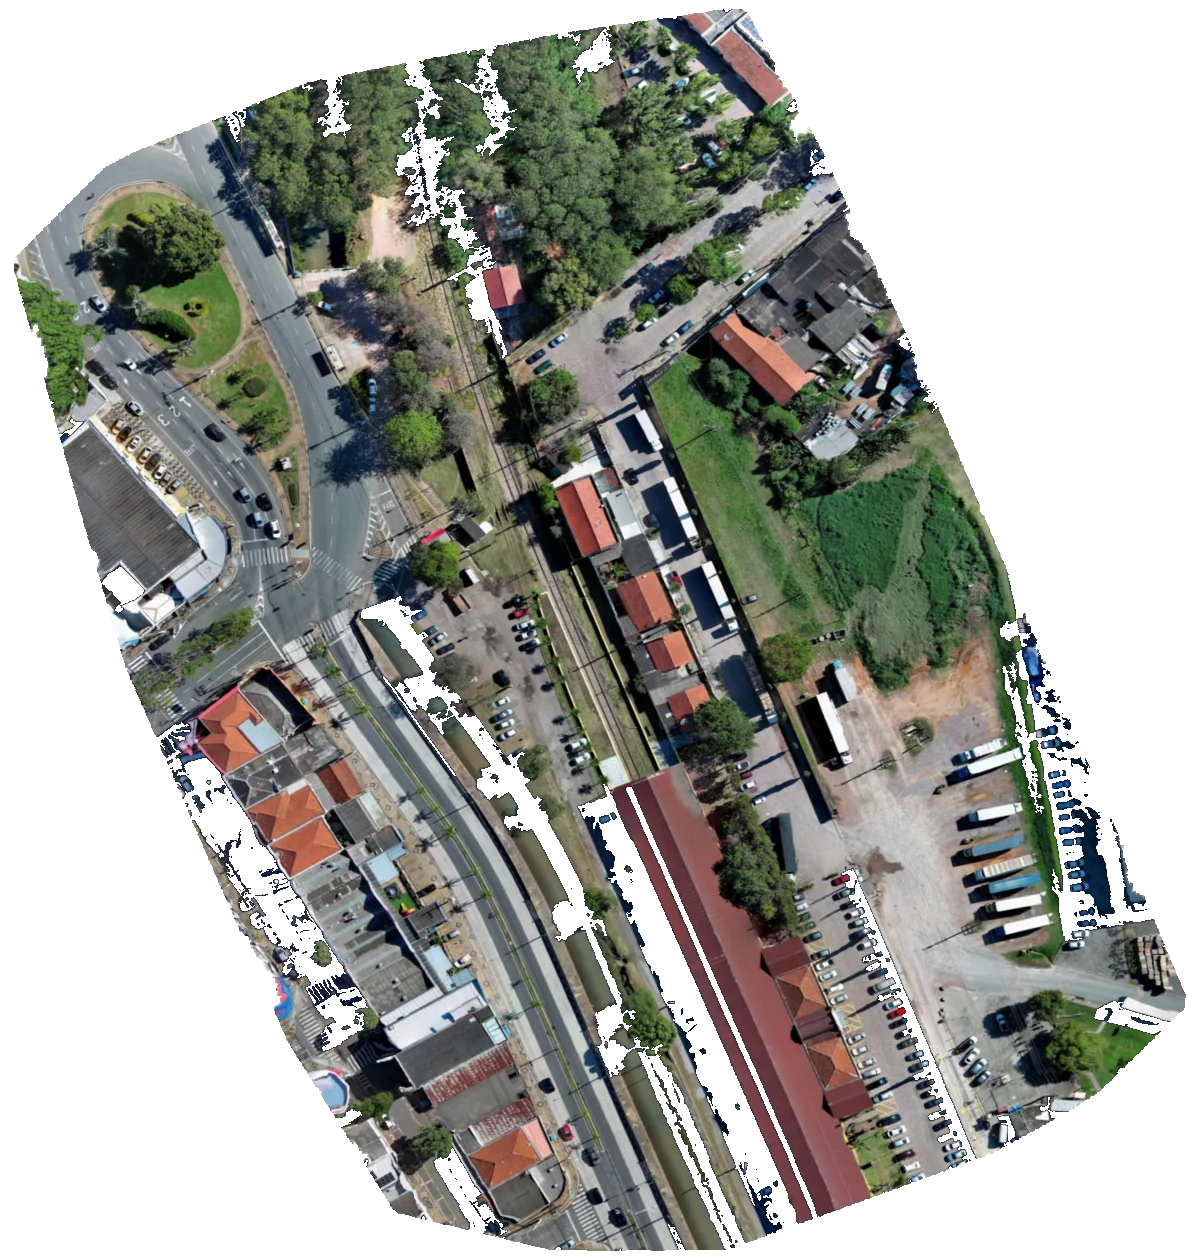
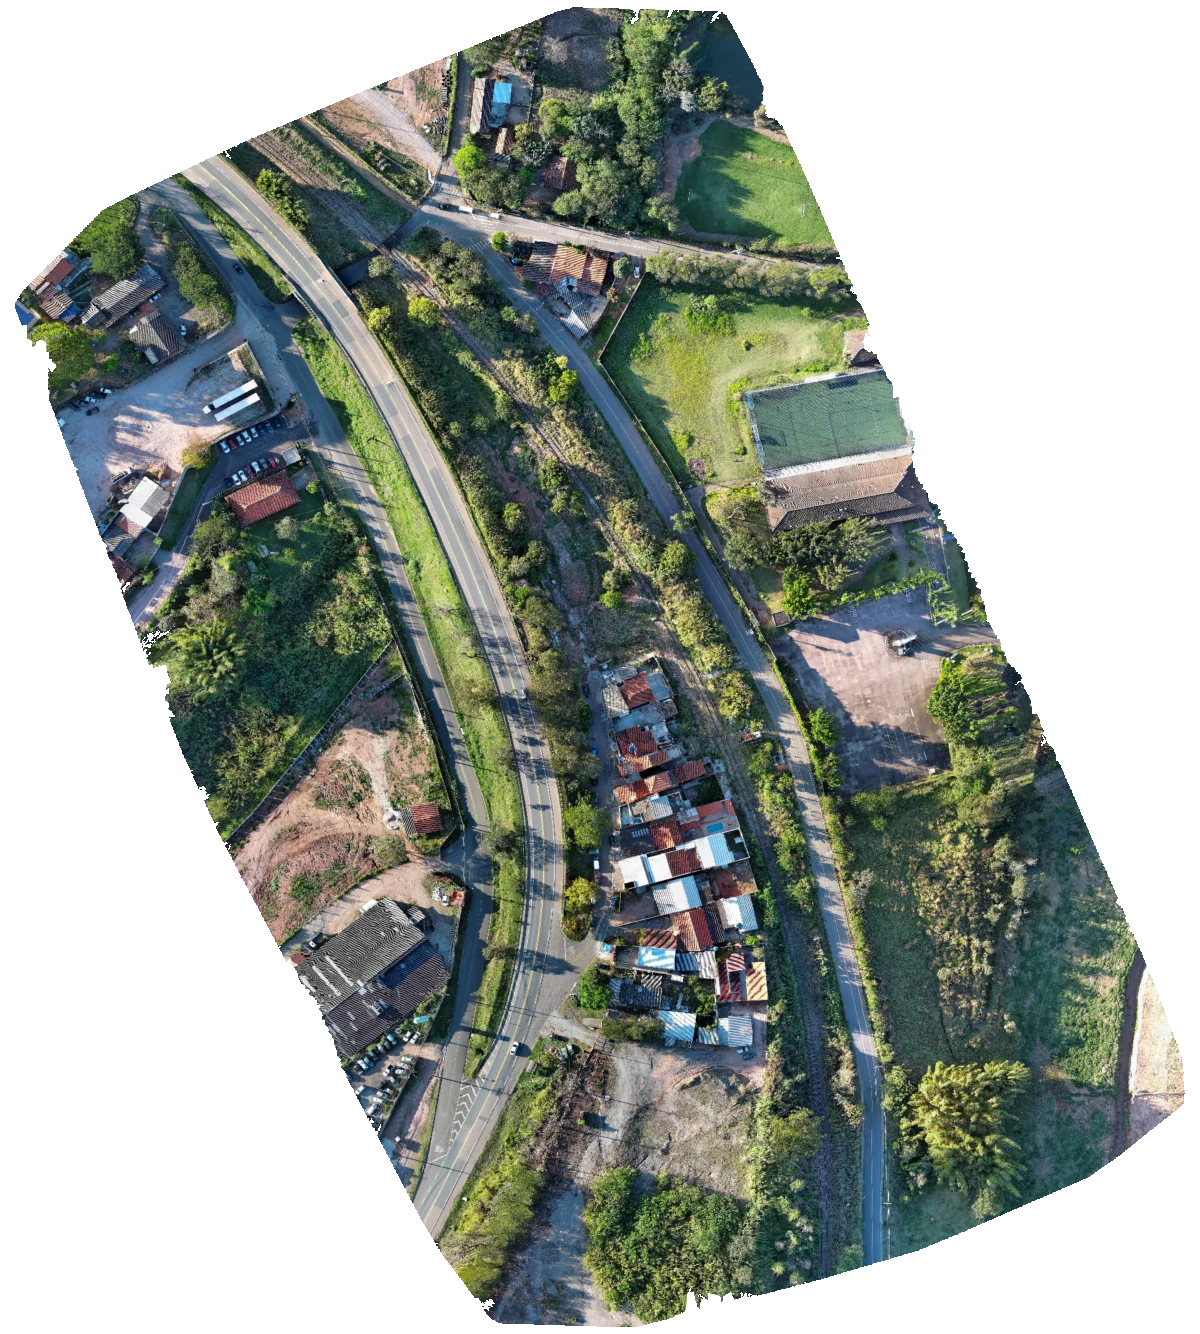
Corrige nomes e limites dos voos no mapa

diff --git a/index.html b/index.html
@@ -324,7 +324,7 @@ const grupo=L.layerGroup().addTo(map);
 const marcadores=[]; const ativos=new Set();
 function render(){grupo.clearLayers();marcadores.forEach(m=>{if(ativos.has(m.status))grupo.addLayer(m.mk);});}
 
-fetch('dados.geojson?v=5243706').then(r=>r.json()).then(gj=>{
+fetch('dados.geojson?v=20260915-oc').then(r=>r.json()).then(gj=>{
   const feats=gj.features.filter(f=>f.geometry&&f.geometry.coordinates);
   // ordena por latitude p/ varredura
   feats.sort((a,b)=>b.geometry.coordinates[1]-a.geometry.coordinates[1]);
@@ -368,9 +368,9 @@ fetch('dados.geojson?v=5243706').then(r=>r.json()).then(gj=>{
 
   // demais imagens de voo disponíveis no projeto QGIS
   const OUTROS_VOOS=[
-    {id:'lo002',nome:'LO_002 · imagem aérea',arquivo:'LO_002_web.webp',bounds:[[-22.9696576,-46.9952151],[-22.966826,-46.9925139]]},
-    {id:'lo003',nome:'LO_003 · imagem aérea',arquivo:'LO_003_web.webp',bounds:[[-23.1048959,-46.9438006],[-23.1007857,-46.9401037]]},
-    {id:'va004',nome:'VA_004 · imagem aérea',arquivo:'VA_004_web.webp',bounds:[[-23.0953735,-46.9490163],[-23.0919928,-46.9463874]]}
+    {id:'lo002',nome:'LO_002 · imagem aérea',arquivo:'LO_002_web.webp?v=20260915-raster',bounds:[[-23.1048959,-46.9438006],[-23.1007857,-46.9401037]]},
+    {id:'lo003',nome:'LO_003 · imagem aérea',arquivo:'LO_003_web.webp?v=20260915-raster',bounds:[[-23.0953735,-46.9490163],[-23.0919928,-46.9463874]]},
+    {id:'va004',nome:'VA_004 · imagem aérea',arquivo:'VA_004_web.webp?v=20260915-raster',bounds:[[-22.9696576,-46.9952151],[-22.966826,-46.9925139]]}
   ];
   OUTROS_VOOS.forEach(cfg=>{
     const raster=L.imageOverlay(cfg.arquivo,cfg.bounds,{opacity:.82,interactive:false});

diff --git a/prepare_web_rasters.py b/prepare_web_rasters.py
@@ -11,9 +11,9 @@ import numpy as np
 ROOT = Path(__file__).resolve().parent
 SRC = Path(os.environ.get('QGIS_RASTER_DIR', ROOT))
 items = [
-    ('LO_002', SRC / 'odm_orthophoto.tif'),
-    ('LO_003', SRC / 'odm_orthophoto1.tif'),
-    ('VA_004', SRC / 'odm_orthophoto2.tif'),
+    ('LO_002', SRC / 'odm_orthophoto1.tif'),
+    ('LO_003', SRC / 'odm_orthophoto2.tif'),
+    ('VA_004', SRC / 'odm_orthophoto.tif'),
 ]
 
 def bounds_from_extent(extent):

diff --git a/qfield/README.md b/qfield/README.md
@@ -6,6 +6,8 @@ A versão publicada aqui é uma cópia compactada do raster usada para respeitar
 
 O arquivo `Cadastro_Campo_cloud.qgs` referencia o raster relativo `./JU0014_sem_borda.tif`. As demais camadas e bases do projeto permanecem gerenciadas no QFieldCloud e não são duplicadas nesta pasta.
 
+As outras imagens seguem a associação do projeto QGIS: `LO_002` usa `odm_orthophoto1.tif`, `LO_003` usa `odm_orthophoto2.tif` e `VA_004` usa `odm_orthophoto.tif`. Os nomes dos arquivos são mantidos por compatibilidade com o projeto; a conferência espacial confirmou que os pontos `LO-001`, `LO-003` e `VA-004` caem, respectivamente, nas áreas das camadas `LO_002`, `LO_003` e `VA_004`.
+
 ## Classificação cadastral
 
 Os pontos públicos do mapa usam a mesma separação operacional do DWG: **Concluído** para `OCUPAÇÕES CADASTRADAS`, **A cadastrar** para `OCUPAÇÕES NÃO CADASTRADAS` e **Recusa** para a camada `RECUSA`. Os dados públicos não incluem nomes, CPF, telefone ou outros dados pessoais dos ocupantes.
